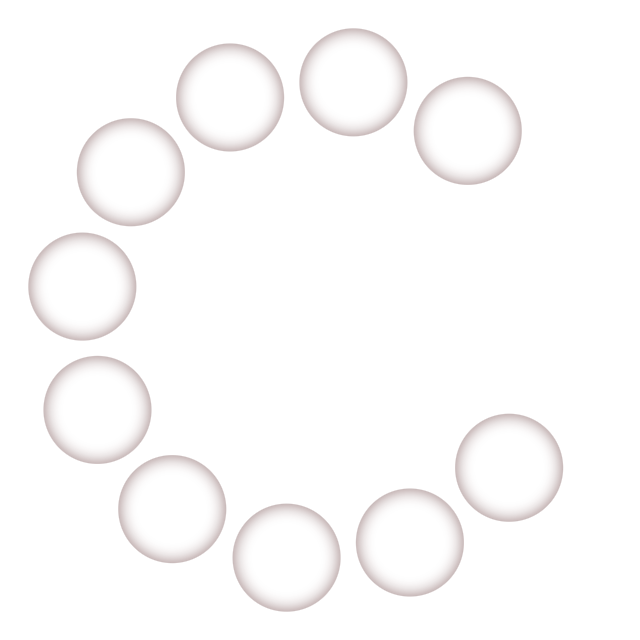
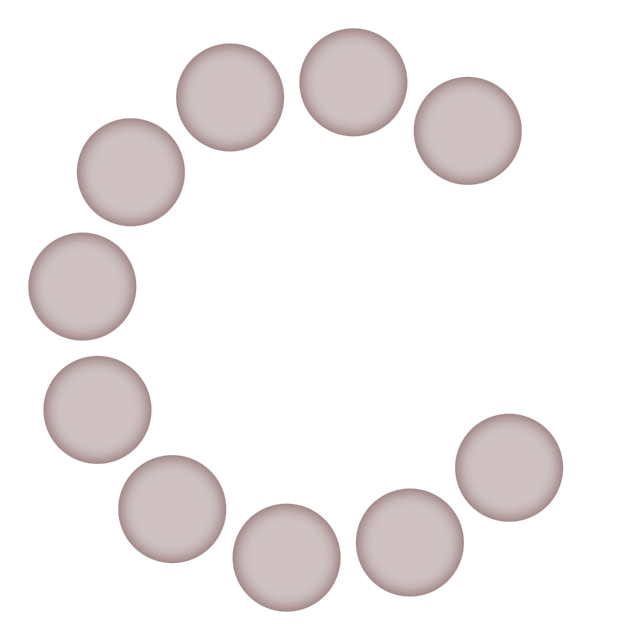
Works: make the dial holes read as holes
The plate between the holes now catches a little of the photo's light
and the hole interiors are darker, so the openings stand out.

Changed region(s): [[0.0312, 0.0312, 0.9062, 0.9688]]

diff --git a/works.html b/works.html
@@ -109,8 +109,8 @@
     transform: scaleY(0.6625) rotate(var(--dial-rot, 0deg));
   }
   .dial-rim {
-    -webkit-mask: url(assets/img/dial-rim-mask.png?v=1) center / 100% 100% no-repeat;
-    mask: url(assets/img/dial-rim-mask.png?v=1) center / 100% 100% no-repeat;
+    -webkit-mask: url(assets/img/dial-rim-mask.png?v=2) center / 100% 100% no-repeat;
+    mask: url(assets/img/dial-rim-mask.png?v=2) center / 100% 100% no-repeat;
   }
   .dial-rim-tex { /* 親の回転とつぶしを打ち消して、画面に固定する */
     position: absolute;
@@ -185,12 +185,12 @@
 
 <div class="works-frame melt-wait" id="worksFrame" role="link" tabindex="0" aria-label="トップへ戻る">
   <div class="works-scene">
-  <img class="works-img" src="assets/img/works-closed.webp?v=10" alt="Shih TingFang Diner — Works (2022~) 赤いダイヤル電話">
+  <img class="works-img" src="assets/img/works-closed.webp?v=11" alt="Shih TingFang Diner — Works (2022~) 赤いダイヤル電話">
   <div class="dial-layer">
     <div class="phone-tap" id="phoneTap"></div>
     <img class="dial-bed" src="assets/img/dial-bed.webp?v=3" alt="" draggable="false">
     <div class="dial-box" id="dialBox">
-      <img class="dial-spin" src="assets/img/dial-shadow.webp?v=1" alt="" draggable="false">
+      <img class="dial-spin" src="assets/img/dial-shadow.webp?v=2" alt="" draggable="false">
       <div class="dial-spin dial-rim"><img class="dial-rim-tex" src="assets/img/dial-rim-tex.webp?v=1" alt="" draggable="false"></div>
     </div>
     <img class="dial-top" src="assets/img/dial-top.webp?v=2" alt="" draggable="false">

diff --git a/docs/works-dial-spec.md b/docs/works-dial-spec.md
@@ -6,7 +6,7 @@ Works (2022~) の電話のダイヤルを回して番号を入力し、正しけ
 今の中身は空で、正解しても CLOSED の札はそのまま。受話器の音だけが鳴る。
 
 - 画面と操作: `works-dial.js`、`works.html` の `.dial-*`
-- 画像: `dial-bed.webp`（写真の盤から穴だけを消した土台。外周の縁・厚み・紙のまわりは写真のまま）、`dial-shadow.webp`（穴の奥の影、回る）、`dial-rim-mask.png`（穴の縁の形、回るマスク）、`dial-rim-tex.webp`（縁の色。写真の光を画面に固定して使う）、`dial-top.webp`（固定の紙と指止め）
+- 画像: `dial-bed.webp`（写真の盤から穴だけを消した土台。外周の縁・厚み・紙のまわりは写真のまま）、`dial-shadow.webp`（穴の奥の影、回る）、`dial-rim-mask.png`（穴の縁と、穴の間の板の形。回るマスク。板は薄く光らせて、暗い穴との差を出す）、`dial-rim-tex.webp`（縁の色。写真の光を画面に固定して使う）、`dial-top.webp`（固定の紙と指止め）
 - 回るのは穴の形だけで、光や厚みは回らないので、回しても二重にならない。穴は等間隔。盤の楕円は写真の盤の表面（中心 566,1355・半径 80×53）
 - `works-closed.webp` にも同じ盤を合成してある（溶ける演出の間も同じ見た目にするため）
 - 暗号文: `assets/works.enc.json`（AES-256-GCM、鍵は PBKDF2-SHA256 60万回）
